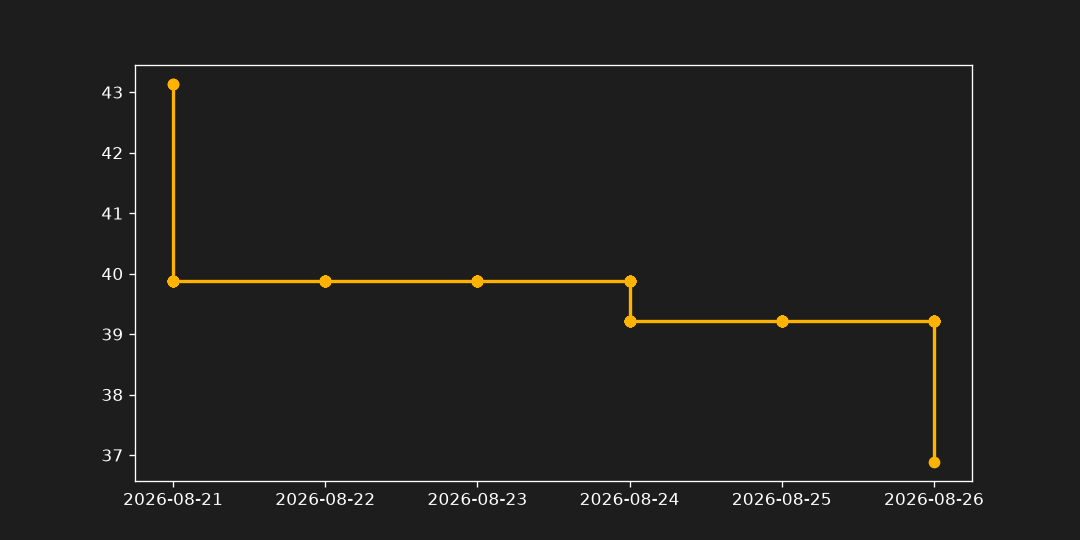
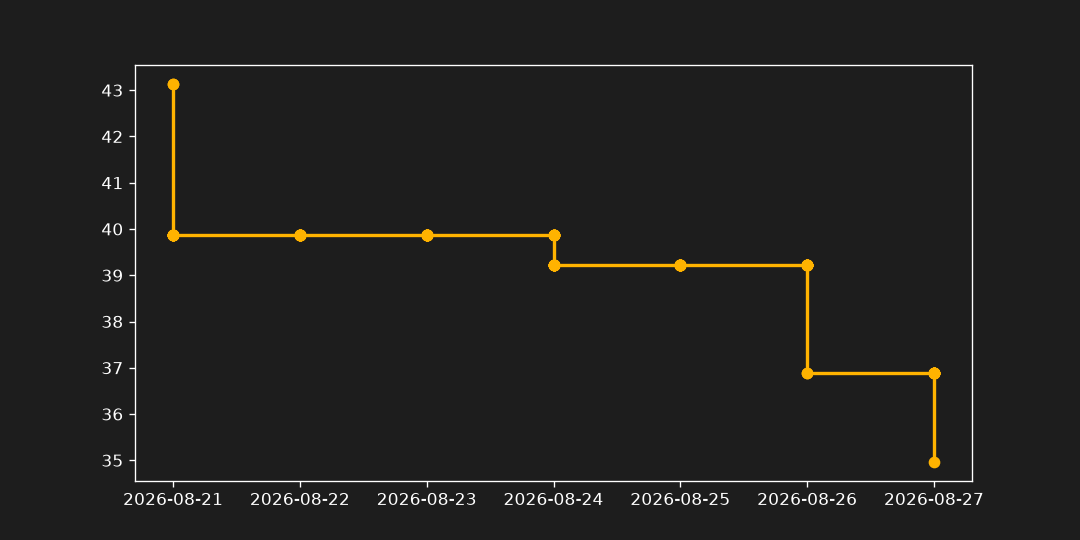
🤖 Bot Mac: Atualizando ofertas [skip ci]

diff --git a/index.html b/index.html
@@ -48,14 +48,14 @@
             <div class="flex flex-col mt-auto mb-5">
                 <div class="flex items-baseline gap-2">
                     <span class="text-2xl font-bold text-white tracking-tight">R$ 184,07</span>
-                    <span class="text-sm text-gray-500 line-through">R$ 251,05</span>
+                    <span class="text-sm text-gray-500 line-through">R$ 250,87</span>
                 </div>
             </div>
             <a href="https://link.amazon/B0bxqDHXJ" target="_blank" rel="nofollow noopener" class="w-full flex items-center justify-center gap-2 py-2.5 rounded-xl bg-white/5 hover:bg-bardo-gold hover:text-bardo-dark text-sm font-bold text-gray-200 transition-all">Comprar na Amazon</a>
         </div>
     </article>
     <article class="relative flex flex-col bg-surface rounded-2xl border border-white/5 overflow-hidden hover:border-bardo-gold/40 transition-all duration-300 group shadow-lg">
-        
+        <div class="absolute top-3 left-3 z-10"><span class="px-2.5 py-1 text-[11px] font-bold uppercase tracking-wider text-emerald-400 bg-emerald-500/10 border border-emerald-500/20 rounded-full backdrop-blur-md shadow-lg">Abaixo da Média</span></div>
         <!-- Vitrine com Efeito Hover Swap -->
         <div class="relative h-64 w-full bg-gradient-to-b from-white/[0.03] to-transparent border-b border-white/5 overflow-hidden">
             <!-- Imagem 1: Capa (Soma ao Hover) -->
@@ -128,7 +128,7 @@
             <div class="flex flex-col mt-auto mb-5">
                 <div class="flex items-baseline gap-2">
                     <span class="text-2xl font-bold text-white tracking-tight">R$ 49,78</span>
-                    <span class="text-sm text-gray-500 line-through">R$ 45,60</span>
+                    <span class="text-sm text-gray-500 line-through">R$ 45,61</span>
                 </div>
             </div>
             <a href="https://link.amazon/B05Sr7Nr7" target="_blank" rel="nofollow noopener" class="w-full flex items-center justify-center gap-2 py-2.5 rounded-xl bg-white/5 hover:bg-bardo-gold hover:text-bardo-dark text-sm font-bold text-gray-200 transition-all">Comprar na Amazon</a>
@@ -148,7 +148,7 @@
             <div class="flex flex-col mt-auto mb-5">
                 <div class="flex items-baseline gap-2">
                     <span class="text-2xl font-bold text-white tracking-tight">R$ 139,93</span>
-                    <span class="text-sm text-gray-500 line-through">R$ 131,67</span>
+                    <span class="text-sm text-gray-500 line-through">R$ 131,69</span>
                 </div>
             </div>
             <a href="https://link.amazon/B04OFbHZF" target="_blank" rel="nofollow noopener" class="w-full flex items-center justify-center gap-2 py-2.5 rounded-xl bg-white/5 hover:bg-bardo-gold hover:text-bardo-dark text-sm font-bold text-gray-200 transition-all">Comprar na Amazon</a>
@@ -188,7 +188,7 @@
             <div class="flex flex-col mt-auto mb-5">
                 <div class="flex items-baseline gap-2">
                     <span class="text-2xl font-bold text-white tracking-tight">R$ 227,26</span>
-                    <span class="text-sm text-gray-500 line-through">R$ 219,68</span>
+                    <span class="text-sm text-gray-500 line-through">R$ 219,70</span>
                 </div>
             </div>
             <a href="https://link.amazon/B0cOS4omj" target="_blank" rel="nofollow noopener" class="w-full flex items-center justify-center gap-2 py-2.5 rounded-xl bg-white/5 hover:bg-bardo-gold hover:text-bardo-dark text-sm font-bold text-gray-200 transition-all">Comprar na Amazon</a>
@@ -228,7 +228,7 @@
             <div class="flex flex-col mt-auto mb-5">
                 <div class="flex items-baseline gap-2">
                     <span class="text-2xl font-bold text-white tracking-tight">R$ 78,99</span>
-                    <span class="text-sm text-gray-500 line-through">R$ 76,65</span>
+                    <span class="text-sm text-gray-500 line-through">R$ 76,66</span>
                 </div>
             </div>
             <a href="https://link.amazon/B01CIGwaZ" target="_blank" rel="nofollow noopener" class="w-full flex items-center justify-center gap-2 py-2.5 rounded-xl bg-white/5 hover:bg-bardo-gold hover:text-bardo-dark text-sm font-bold text-gray-200 transition-all">Comprar na Amazon</a>
@@ -248,7 +248,7 @@
             <div class="flex flex-col mt-auto mb-5">
                 <div class="flex items-baseline gap-2">
                     <span class="text-2xl font-bold text-white tracking-tight">R$ 368,65</span>
-                    <span class="text-sm text-gray-500 line-through">R$ 371,71</span>
+                    <span class="text-sm text-gray-500 line-through">R$ 371,70</span>
                 </div>
             </div>
             <a href="https://link.amazon/B0czAwuOp" target="_blank" rel="nofollow noopener" class="w-full flex items-center justify-center gap-2 py-2.5 rounded-xl bg-white/5 hover:bg-bardo-gold hover:text-bardo-dark text-sm font-bold text-gray-200 transition-all">Comprar na Amazon</a>
@@ -288,7 +288,7 @@
             <div class="flex flex-col mt-auto mb-5">
                 <div class="flex items-baseline gap-2">
                     <span class="text-2xl font-bold text-white tracking-tight">R$ 69,73</span>
-                    <span class="text-sm text-gray-500 line-through">R$ 66,72</span>
+                    <span class="text-sm text-gray-500 line-through">R$ 66,73</span>
                 </div>
             </div>
             <a href="https://link.amazon/B0bJ5jTSU" target="_blank" rel="nofollow noopener" class="w-full flex items-center justify-center gap-2 py-2.5 rounded-xl bg-white/5 hover:bg-bardo-gold hover:text-bardo-dark text-sm font-bold text-gray-200 transition-all">Comprar na Amazon</a>
@@ -308,7 +308,7 @@
             <div class="flex flex-col mt-auto mb-5">
                 <div class="flex items-baseline gap-2">
                     <span class="text-2xl font-bold text-white tracking-tight">R$ 46,14</span>
-                    <span class="text-sm text-gray-500 line-through">R$ 52,05</span>
+                    <span class="text-sm text-gray-500 line-through">R$ 52,03</span>
                 </div>
             </div>
             <a href="https://link.amazon/B075ASsRo" target="_blank" rel="nofollow noopener" class="w-full flex items-center justify-center gap-2 py-2.5 rounded-xl bg-white/5 hover:bg-bardo-gold hover:text-bardo-dark text-sm font-bold text-gray-200 transition-all">Comprar na Amazon</a>
@@ -368,7 +368,7 @@
             <div class="flex flex-col mt-auto mb-5">
                 <div class="flex items-baseline gap-2">
                     <span class="text-2xl font-bold text-white tracking-tight">R$ 92,70</span>
-                    <span class="text-sm text-gray-500 line-through">R$ 101,07</span>
+                    <span class="text-sm text-gray-500 line-through">R$ 101,04</span>
                 </div>
             </div>
             <a href="https://link.amazon/B0g8PJdyP" target="_blank" rel="nofollow noopener" class="w-full flex items-center justify-center gap-2 py-2.5 rounded-xl bg-white/5 hover:bg-bardo-gold hover:text-bardo-dark text-sm font-bold text-gray-200 transition-all">Comprar na Amazon</a>
@@ -408,7 +408,7 @@
             <div class="flex flex-col mt-auto mb-5">
                 <div class="flex items-baseline gap-2">
                     <span class="text-2xl font-bold text-white tracking-tight">R$ 137,70</span>
-                    <span class="text-sm text-gray-500 line-through">R$ 144,45</span>
+                    <span class="text-sm text-gray-500 line-through">R$ 144,43</span>
                 </div>
             </div>
             <a href="https://link.amazon/B0cBFS3o1" target="_blank" rel="nofollow noopener" class="w-full flex items-center justify-center gap-2 py-2.5 rounded-xl bg-white/5 hover:bg-bardo-gold hover:text-bardo-dark text-sm font-bold text-gray-200 transition-all">Comprar na Amazon</a>
@@ -448,7 +448,7 @@
             <div class="flex flex-col mt-auto mb-5">
                 <div class="flex items-baseline gap-2">
                     <span class="text-2xl font-bold text-white tracking-tight">R$ 44,89</span>
-                    <span class="text-sm text-gray-500 line-through">R$ 43,54</span>
+                    <span class="text-sm text-gray-500 line-through">R$ 43,55</span>
                 </div>
             </div>
             <a href="https://link.amazon/B00bB1BuS" target="_blank" rel="nofollow noopener" class="w-full flex items-center justify-center gap-2 py-2.5 rounded-xl bg-white/5 hover:bg-bardo-gold hover:text-bardo-dark text-sm font-bold text-gray-200 transition-all">Comprar na Amazon</a>
@@ -548,7 +548,7 @@
             <div class="flex flex-col mt-auto mb-5">
                 <div class="flex items-baseline gap-2">
                     <span class="text-2xl font-bold text-white tracking-tight">R$ 87,59</span>
-                    <span class="text-sm text-gray-500 line-through">R$ 84,60</span>
+                    <span class="text-sm text-gray-500 line-through">R$ 84,61</span>
                 </div>
             </div>
             <a href="https://link.amazon/B0fHxeIhM" target="_blank" rel="nofollow noopener" class="w-full flex items-center justify-center gap-2 py-2.5 rounded-xl bg-white/5 hover:bg-bardo-gold hover:text-bardo-dark text-sm font-bold text-gray-200 transition-all">Comprar na Amazon</a>
@@ -588,7 +588,7 @@
             <div class="flex flex-col mt-auto mb-5">
                 <div class="flex items-baseline gap-2">
                     <span class="text-2xl font-bold text-white tracking-tight">R$ 285,85</span>
-                    <span class="text-sm text-gray-500 line-through">R$ 281,64</span>
+                    <span class="text-sm text-gray-500 line-through">R$ 281,68</span>
                 </div>
             </div>
             <a href="https://link.amazon/B046QvncM" target="_blank" rel="nofollow noopener" class="w-full flex items-center justify-center gap-2 py-2.5 rounded-xl bg-white/5 hover:bg-bardo-gold hover:text-bardo-dark text-sm font-bold text-gray-200 transition-all">Comprar na Amazon</a>
@@ -608,7 +608,7 @@
             <div class="flex flex-col mt-auto mb-5">
                 <div class="flex items-baseline gap-2">
                     <span class="text-2xl font-bold text-white tracking-tight">R$ 192,75</span>
-                    <span class="text-sm text-gray-500 line-through">R$ 191,60</span>
+                    <span class="text-sm text-gray-500 line-through">R$ 191,61</span>
                 </div>
             </div>
             <a href="https://link.amazon/B037mPoB1" target="_blank" rel="nofollow noopener" class="w-full flex items-center justify-center gap-2 py-2.5 rounded-xl bg-white/5 hover:bg-bardo-gold hover:text-bardo-dark text-sm font-bold text-gray-200 transition-all">Comprar na Amazon</a>
@@ -728,7 +728,7 @@
             <div class="flex flex-col mt-auto mb-5">
                 <div class="flex items-baseline gap-2">
                     <span class="text-2xl font-bold text-white tracking-tight">R$ 63,90</span>
-                    <span class="text-sm text-gray-500 line-through">R$ 66,89</span>
+                    <span class="text-sm text-gray-500 line-through">R$ 66,86</span>
                 </div>
             </div>
             <a href="https://link.amazon/B0gpt2mie" target="_blank" rel="nofollow noopener" class="w-full flex items-center justify-center gap-2 py-2.5 rounded-xl bg-white/5 hover:bg-bardo-gold hover:text-bardo-dark text-sm font-bold text-gray-200 transition-all">Comprar na Amazon</a>
@@ -748,7 +748,7 @@
             <div class="flex flex-col mt-auto mb-5">
                 <div class="flex items-baseline gap-2">
                     <span class="text-2xl font-bold text-white tracking-tight">R$ 66,74</span>
-                    <span class="text-sm text-gray-500 line-through">R$ 68,30</span>
+                    <span class="text-sm text-gray-500 line-through">R$ 68,29</span>
                 </div>
             </div>
             <a href="https://link.amazon/B053gl2cU" target="_blank" rel="nofollow noopener" class="w-full flex items-center justify-center gap-2 py-2.5 rounded-xl bg-white/5 hover:bg-bardo-gold hover:text-bardo-dark text-sm font-bold text-gray-200 transition-all">Comprar na Amazon</a>
@@ -768,7 +768,7 @@
             <div class="flex flex-col mt-auto mb-5">
                 <div class="flex items-baseline gap-2">
                     <span class="text-2xl font-bold text-white tracking-tight">R$ 67,57</span>
-                    <span class="text-sm text-gray-500 line-through">R$ 56,77</span>
+                    <span class="text-sm text-gray-500 line-through">R$ 56,86</span>
                 </div>
             </div>
             <a href="https://link.amazon/B09R1newk" target="_blank" rel="nofollow noopener" class="w-full flex items-center justify-center gap-2 py-2.5 rounded-xl bg-white/5 hover:bg-bardo-gold hover:text-bardo-dark text-sm font-bold text-gray-200 transition-all">Comprar na Amazon</a>
@@ -787,8 +787,8 @@
             <h3 class="text-base font-semibold text-gray-100 leading-snug line-clamp-2 mb-4 group-hover:text-bardo-gold transition-colors">O Príncipe Cruel</h3>
             <div class="flex flex-col mt-auto mb-5">
                 <div class="flex items-baseline gap-2">
-                    <span class="text-2xl font-bold text-white tracking-tight">R$ 36,89</span>
-                    <span class="text-sm text-gray-500 line-through">R$ 39,34</span>
+                    <span class="text-2xl font-bold text-white tracking-tight">R$ 34,97</span>
+                    <span class="text-sm text-gray-500 line-through">R$ 39,30</span>
                 </div>
             </div>
             <a href="https://link.amazon/B0aKkKOM2" target="_blank" rel="nofollow noopener" class="w-full flex items-center justify-center gap-2 py-2.5 rounded-xl bg-white/5 hover:bg-bardo-gold hover:text-bardo-dark text-sm font-bold text-gray-200 transition-all">Comprar na Amazon</a>
@@ -828,7 +828,7 @@
             <div class="flex flex-col mt-auto mb-5">
                 <div class="flex items-baseline gap-2">
                     <span class="text-2xl font-bold text-white tracking-tight">R$ 54,99</span>
-                    <span class="text-sm text-gray-500 line-through">R$ 56,72</span>
+                    <span class="text-sm text-gray-500 line-through">R$ 56,70</span>
                 </div>
             </div>
             <a href="https://link.amazon/B0hzsQMzC" target="_blank" rel="nofollow noopener" class="w-full flex items-center justify-center gap-2 py-2.5 rounded-xl bg-white/5 hover:bg-bardo-gold hover:text-bardo-dark text-sm font-bold text-gray-200 transition-all">Comprar na Amazon</a>
@@ -928,7 +928,7 @@
             <div class="flex flex-col mt-auto mb-5">
                 <div class="flex items-baseline gap-2">
                     <span class="text-2xl font-bold text-white tracking-tight">R$ 62,60</span>
-                    <span class="text-sm text-gray-500 line-through">R$ 68,69</span>
+                    <span class="text-sm text-gray-500 line-through">R$ 68,64</span>
                 </div>
             </div>
             <a href="https://link.amazon/B0jllWIXN" target="_blank" rel="nofollow noopener" class="w-full flex items-center justify-center gap-2 py-2.5 rounded-xl bg-white/5 hover:bg-bardo-gold hover:text-bardo-dark text-sm font-bold text-gray-200 transition-all">Comprar na Amazon</a>
@@ -988,7 +988,7 @@
             <div class="flex flex-col mt-auto mb-5">
                 <div class="flex items-baseline gap-2">
                     <span class="text-2xl font-bold text-white tracking-tight">R$ 314,60</span>
-                    <span class="text-sm text-gray-500 line-through">R$ 320,19</span>
+                    <span class="text-sm text-gray-500 line-through">R$ 320,14</span>
                 </div>
             </div>
             <a href="https://link.amazon/B02mXXqIa" target="_blank" rel="nofollow noopener" class="w-full flex items-center justify-center gap-2 py-2.5 rounded-xl bg-white/5 hover:bg-bardo-gold hover:text-bardo-dark text-sm font-bold text-gray-200 transition-all">Comprar na Amazon</a>
@@ -1008,7 +1008,7 @@
             <div class="flex flex-col mt-auto mb-5">
                 <div class="flex items-baseline gap-2">
                     <span class="text-2xl font-bold text-white tracking-tight">R$ 232,46</span>
-                    <span class="text-sm text-gray-500 line-through">R$ 228,82</span>
+                    <span class="text-sm text-gray-500 line-through">R$ 228,86</span>
                 </div>
             </div>
             <a href="https://link.amazon/B01sIcUyP" target="_blank" rel="nofollow noopener" class="w-full flex items-center justify-center gap-2 py-2.5 rounded-xl bg-white/5 hover:bg-bardo-gold hover:text-bardo-dark text-sm font-bold text-gray-200 transition-all">Comprar na Amazon</a>
